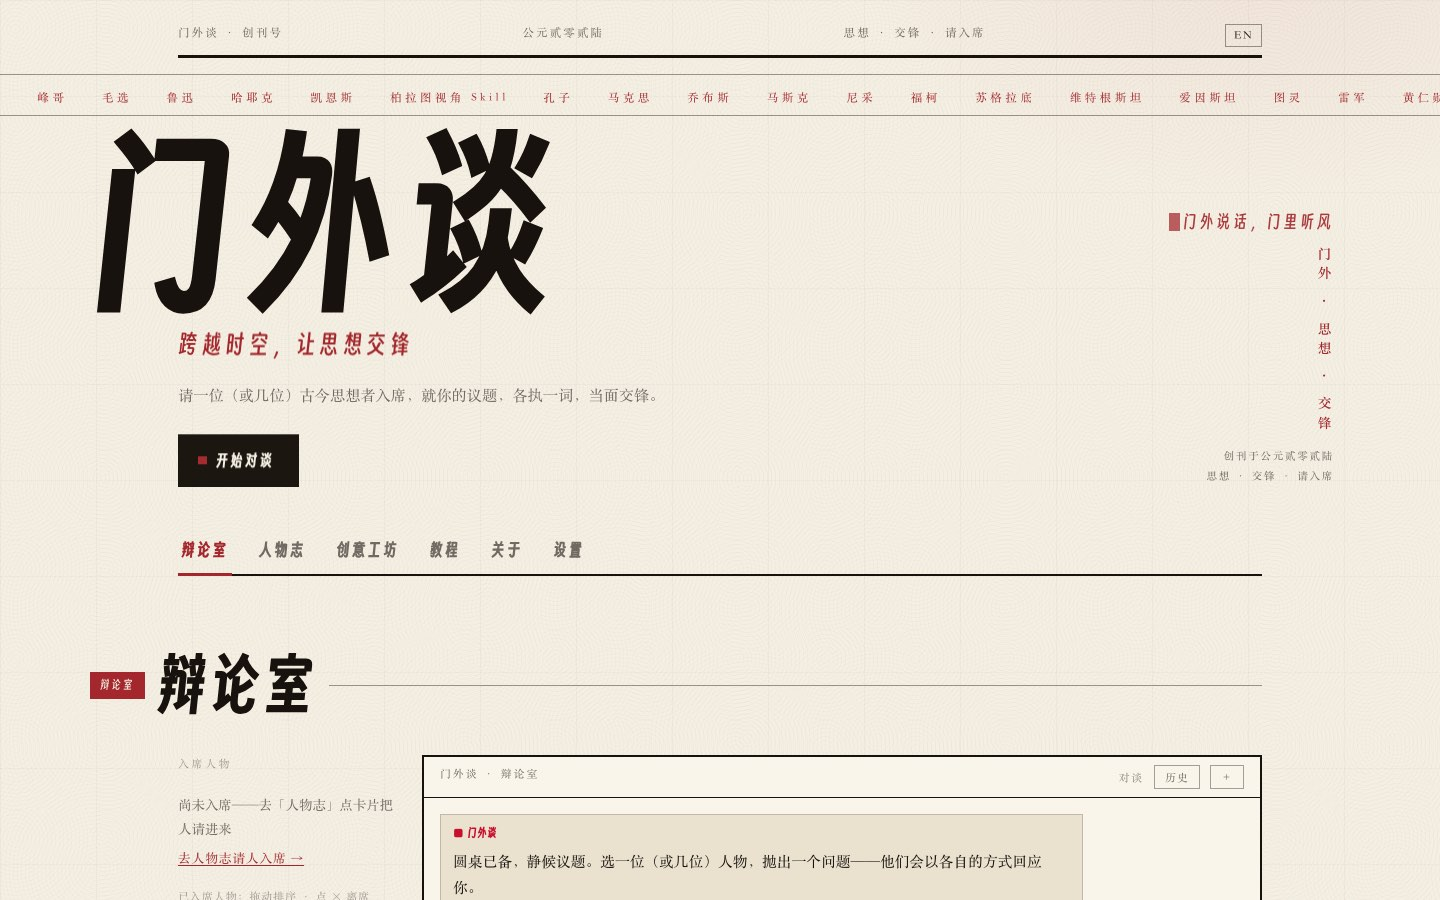
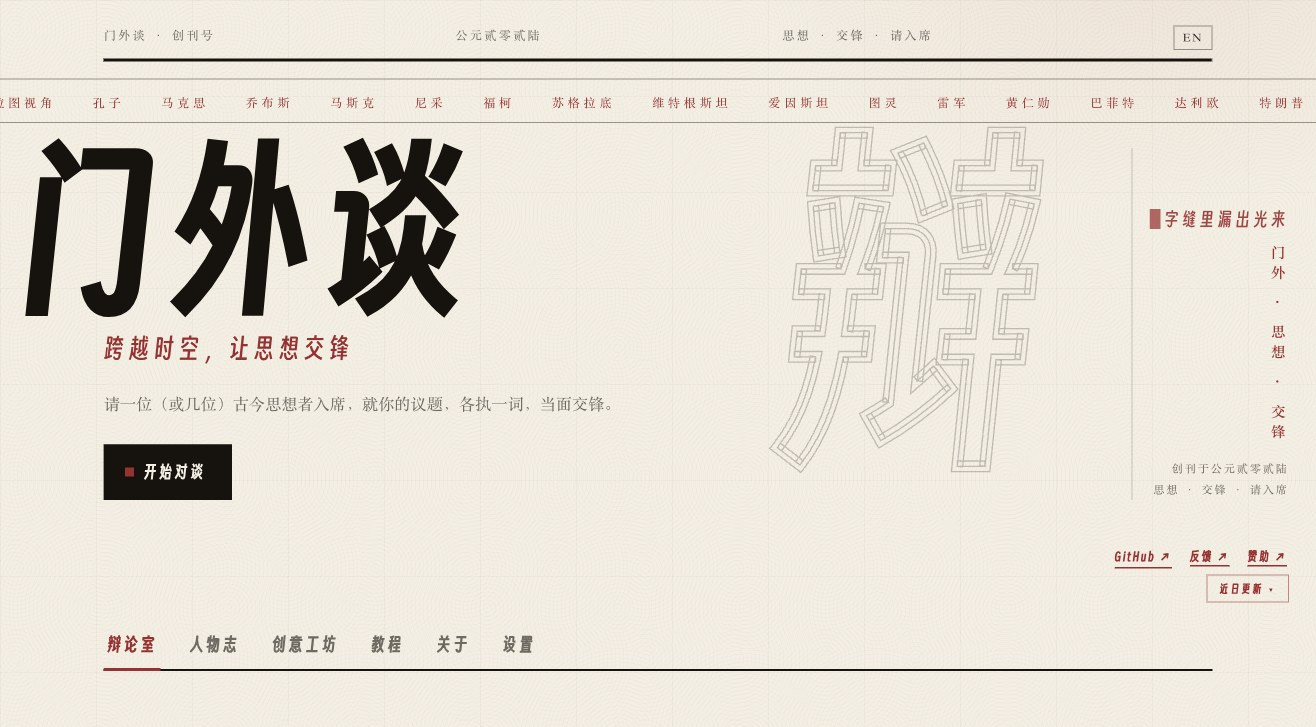
仓库对外可见部分更新到 v2
老师/评审点开 GitHub 第一眼是 README，而它当时：
- 写着「看张雪峰、罗翔、马克思和孔子吵起来」——这两人正是已删的敏感人物
- 全篇没提 v2 的信息层（也就是被评分的核心创新）
- 人物数量写 26+，实际 35
- 配图是 v1 旧截图

改动：
- README.md / README.en.md：开头改为鲁迅/马克思/孔子/乔布斯，补 v2 信息层说明
- 补「关于本仓库」：赛事、作品编号、作者与指导教师
- 26+ → 35；配图换成当前线上首页实拍
- 删除 _preview-shots/（设计探索稿 15 张）与 docs/promo/（v1 宣传图 11 张，8MB）

diff --git a/README.md b/README.md
@@ -6,13 +6,17 @@
 
 ![Next.js](https://img.shields.io/badge/Next.js-16-black) ![React](https://img.shields.io/badge/React-19-61dafb) ![TypeScript](https://img.shields.io/badge/TypeScript-5-blue) ![License](https://img.shields.io/badge/License-MIT-green)
 
-> 选个位子，抛一个问题，看张雪峰、罗翔、马克思和孔子吵起来——纸墨红的革命美学，文火慢炖。
+> 选个位子，抛一个问题，看鲁迅、马克思、孔子和乔布斯吵起来——纸墨红的报刊美学，文火慢炖。
+>
+> **v2 核心创新：给圆桌加一层「信息层」。** 发言可以只让某一位看到，用户能私下对某个角色说话，
+> 其他人完全不知道。被私下告知的人会带着这条信息当众点名对方——讨论因此从轮流发言，变成带有暗流的博弈。
 
 ![门外谈 网页快照](docs/screenshot-v2.jpg)
 
 ## 功能
 
-- **思想者阵容** —— 每位思想家一份 SKILL.md，由开源社区蒸馏（26+ 位）
+- **信息层（v2）** —— 可见性 / 悄悄话 / 点名对质 / 信息新颖度 / 主持人收尾，五个机制串成一条链
+- **思想者阵容** —— 35 位思想家，每位一份 SKILL.md，人格蒸馏自开源社区
 - **对谈 / 圆桌** —— 单聊，或让多位思想家轮流交锋
 - **场景系统** —— 随口 / 较真 / 上头 控制回答长短与火候，气氛上来自动升级
 - **联网查梗** —— 遇到不懂的梗/名词，角色会先联网检索再回答（免费多源）
@@ -58,6 +62,13 @@
 ### 9. 快捷键
 - 回车：发送 / 插话
 - 发送键三态：**发言** → **⏸ 停止**（AI 说话时）→ 重新输入即继续
+
+## 关于本仓库
+
+本作品参加 **2026 年第十四届全国大学生数字媒体科技作品及创意竞赛**（作品编号 375993），
+参赛材料（作品介绍、原创性与知识产权声明、AI 工具使用情况说明、测试说明）在提交时单独提供。
+
+作者：冯思涵、张耀羽（哈尔滨金融学院）　指导教师：胡芳驰、霍镜宇
 
 ## 快速开始（开发）
 

diff --git a/README.en.md b/README.en.md
@@ -6,13 +6,18 @@
 
 ![Next.js](https://img.shields.io/badge/Next.js-16-black) ![React](https://img.shields.io/badge/React-19-61dafb) ![TypeScript](https://img.shields.io/badge/TypeScript-5-blue) ![License](https://img.shields.io/badge/License-MIT-green)
 
-> Pick a seat, throw a question, and watch Zhang Xuefeng, Luo Xiang, Marx and Confucius argue it out — in a revolutionary editorial aesthetic of paper and ink red.
+> Pick a seat, throw a question, and watch Lu Xun, Marx, Confucius and Steve Jobs argue it out — in a paper-and-ink editorial aesthetic.
+>
+> **v2's core idea: an information layer on top of the round table.** A message can be visible to one speaker only.
+> You can whisper to a single persona; the others have no idea. Whoever you told will eventually call the other out in public —
+> so the discussion stops being turn-taking and becomes a game with undercurrents.
 
 ![Menwai Tan screenshot](docs/screenshot-v2.jpg)
 
 ## Features
 
-- **Roster of thinkers** — one SKILL.md per persona, distilled by the open-source community
+- **Information layer (v2)** — visibility / whisper / call-out / novelty / host wrap-up, five mechanisms forming one chain
+- **Roster of thinkers** — 35 personas, one SKILL.md each, distilled by the open-source community
 - **One-on-one or round table** — chat solo, or pit several thinkers against each other in turns
 - **Scene system** — Casual / Serious / Heated control answer length & tone, with auto-escalation
 - **Streaming replies** — SSE with a typewriter effect
